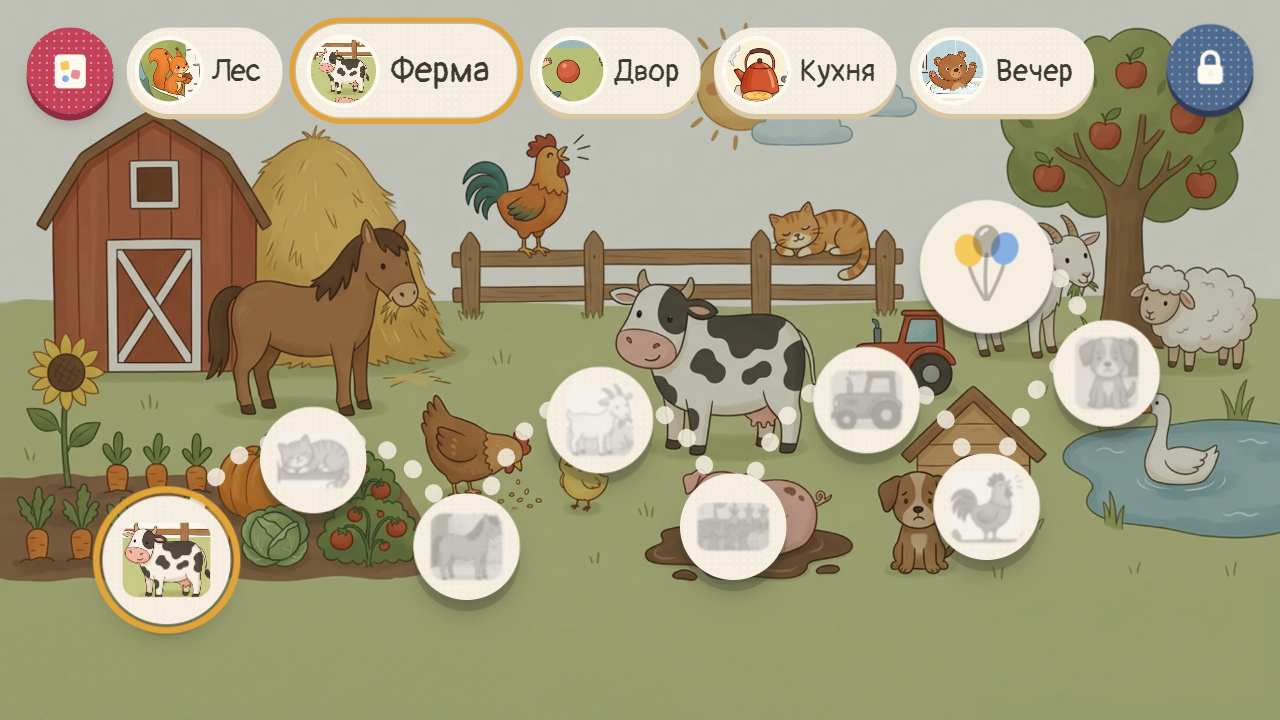
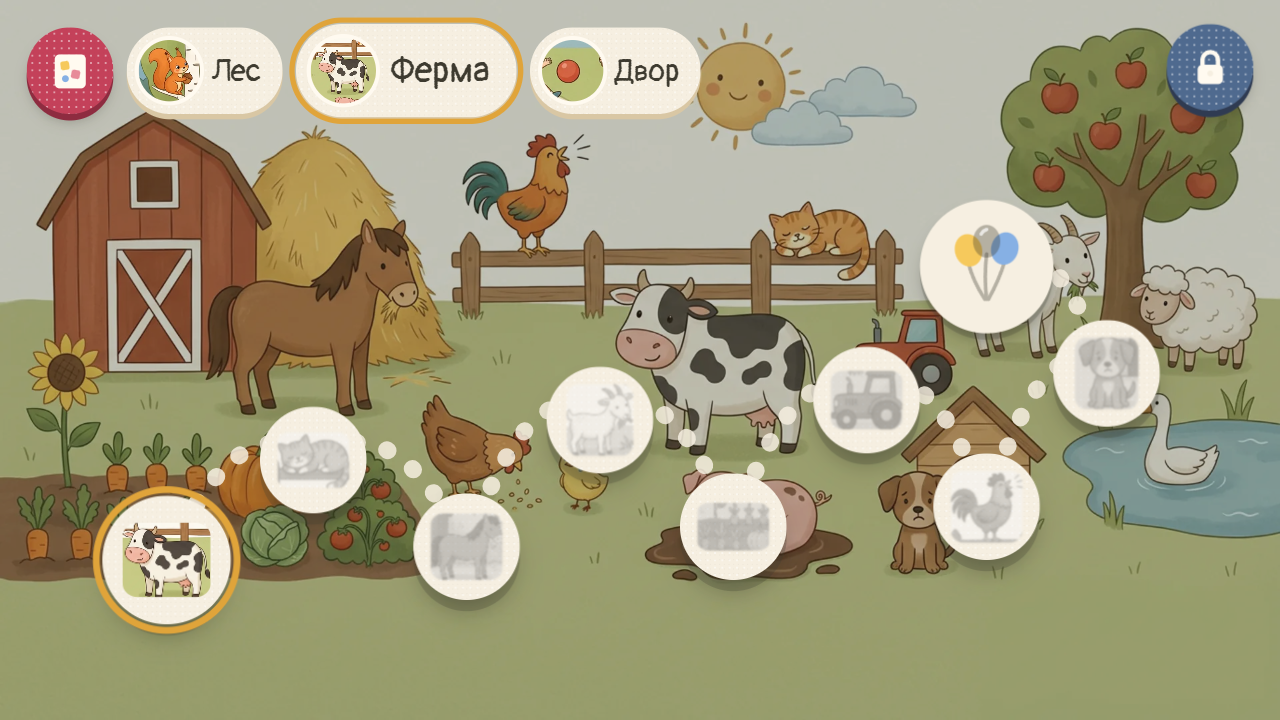
Релизы и обновления: выпускаемые сцены отдельно от готовящихся, реестр выпущенных id, порядок выпуска
- src/data/release.ts: RELEASE_SCENES (лес, ферма, двор) — в релизе только они, в разработке все пять
- zip.mjs требует озвучку только выпускаемых сцен (для 1.0 осталось 148 фраз вместо 292); voice.mjs озвучивает их первыми
- release-ids.json + тест: выпущенные id уровней и героев нельзя переименовать — на них прогресс игроков
- docs/releases.md: как Яндекс принимает обновления и как выпускать новую сцену

Changed region(s): [[0.5312, 0.0306, 0.875, 0.1833]]

diff --git a/src/game/release.test.ts b/src/game/release.test.ts
@@ -1,0 +1,36 @@
+import { describe, expect, it } from 'vitest';
+import released from '../../release-ids.json';
+import { PHRASES } from '../data/phrases';
+import { RELEASE_SCENES, requiredPhrases, scenePhrases } from '../data/release';
+import { ALL_SCENES } from '../data/scenes';
+
+describe('релизы и обновления', () => {
+  it('выпускаемые сцены существуют', () => {
+    for (const id of RELEASE_SCENES) expect(ALL_SCENES.some((s) => s.id === id), id).toBe(true);
+  });
+
+  it('уже выпущенные уровни и герои не пропали — у игроков по ним сохранён прогресс и наклейки', () => {
+    const levels = new Set(ALL_SCENES.flatMap((s) => s.levels.map((l) => l.id)));
+    const objects = new Set(ALL_SCENES.flatMap((s) => s.objects.map((o) => o.id)));
+    expect(released.levels.filter((id: string) => !levels.has(id))).toEqual([]);
+    expect(released.objects.filter((id: string) => !objects.has(id))).toEqual([]);
+  });
+
+  it('релиз требует общие фразы и фразы выпускаемых сцен, но не фразы будущих', () => {
+    const all = Object.keys(PHRASES);
+    const req = new Set(requiredPhrases(ALL_SCENES, all, ['forest']));
+    expect(req.has('welcome')).toBe(true); // общая
+    expect(req.has('squirrel_name')).toBe(true); // лес выпускается
+    expect(req.has('kettle_name')).toBe(false); // кухня — нет
+    expect(req.has('girl_name')).toBe(false); // девочка есть только во дворе и на кухне
+  });
+
+  it('фраза, общая для выпущенной и будущей сцены, нужна релизу', () => {
+    const req = new Set(requiredPhrases(ALL_SCENES, Object.keys(PHRASES), ['yard']));
+    expect(req.has('girl_name')).toBe(true);
+  });
+
+  it('все фразы сцен есть в таблице', () => {
+    for (const s of ALL_SCENES) for (const id of scenePhrases(s)) expect(id in PHRASES, `${s.id}: ${id}`).toBe(true);
+  });
+});

diff --git a/src/data/release.ts b/src/data/release.ts
@@ -1,0 +1,29 @@
+import type { SceneDef } from '../game/types';
+
+// Какие сцены видят игроки. В разработке (npm run dev / show) видны все сцены, в релизной сборке — только эти.
+// Новая сцена приходит к игрокам обновлением: когда её фразы озвучены и проверены, её id добавляется сюда,
+// поднимается версия и собирается новый архив (порядок — docs/releases.md).
+export const RELEASE_SCENES = ['forest', 'farm', 'yard'];
+
+/** Все голосовые фразы, которые звучат в сцене: имена и рассказы героев, задания, связки, история. */
+export function scenePhrases(scene: SceneDef): Set<string> {
+  const ids = new Set<string>();
+  for (const o of scene.objects) for (const k of Object.values(o.voice)) if (k) ids.add(k);
+  for (const l of scene.levels) {
+    ids.add(l.task);
+    if (l.lead) ids.add(l.lead);
+    if (l.outro) ids.add(l.outro);
+  }
+  if (scene.story) ids.add(scene.story.intro).add(scene.story.finale);
+  return ids;
+}
+
+/**
+ * Фразы, без которых релиз не собрать: общие (приветствие, похвала, подсказки — их нет ни в одной сцене)
+ * и фразы выпускаемых сцен. Фразы будущих сцен озвучиваются заранее, но релиз не держат.
+ */
+export function requiredPhrases(all: SceneDef[], phraseIds: string[], released = RELEASE_SCENES): string[] {
+  const inScenes = new Set(all.flatMap((s) => [...scenePhrases(s)]));
+  const needed = new Set(all.filter((s) => released.includes(s.id)).flatMap((s) => [...scenePhrases(s)]));
+  return phraseIds.filter((id) => !inScenes.has(id) || needed.has(id));
+}

diff --git a/src/data/scenes/index.ts b/src/data/scenes/index.ts
@@ -1,12 +1,18 @@
 import type { SceneDef } from '../../game/types';
-import { evening } from './evening';
-import { farm } from './farm';
-import { forest } from './forest';
-import { kitchen } from './kitchen';
-import { yard } from './yard';
+import { RELEASE_SCENES } from '../release.ts';
+import { evening } from './evening.ts';
+import { farm } from './farm.ts';
+import { forest } from './forest.ts';
+import { kitchen } from './kitchen.ts';
+import { yard } from './yard.ts';
+
+// Импорты с расширением .ts: этот модуль читает и scripts/zip.mjs (Node без сборщика).
 
 // «Вечер» — последним: спокойный финал игры («Спокойной ночи!»).
-export const SCENES: SceneDef[] = [forest, farm, yard, kitchen, evening];
+export const ALL_SCENES: SceneDef[] = [forest, farm, yard, kitchen, evening];
+
+// В релизной сборке — только выпущенные сцены (src/data/release.ts); в разработке и тестах — все.
+export const SCENES: SceneDef[] = import.meta.env?.PROD ? ALL_SCENES.filter((s) => RELEASE_SCENES.includes(s.id)) : ALL_SCENES;
 
 export function getScene(id: string): SceneDef | undefined {
   return SCENES.find((s) => s.id === id);

diff --git a/docs/releases.md b/docs/releases.md
@@ -1,0 +1,46 @@
+# Релизы и обновления
+
+## Как Яндекс Игры принимают обновление
+
+- Опубликованную игру можно менять: в Консоли открыть черновик, загрузить новый архив и отправить на модерацию. **Пока идёт проверка, игроки играют в прежнюю версию** — ничего не ломается и не пропадает. ([Выпуск обновлений](https://yandex.ru/dev/games/doc/ru/console/update-game))
+- Одновременно идёт только одна модерация (черновик, A/B-тест креативов или A/B-тест версий). Отказ приходит на почту с причинами, черновик становится «Отклонён».
+- Перед отправкой новую версию можно проверить в [режиме черновика](https://yandex.ru/dev/games/doc/ru/console/draft-mode).
+- Есть [A/B-тесты версий](https://yandex.ru/dev/games/doc/ru/console/ab-builds): часть игроков получает новую сборку — можно сравнить удержание.
+- Сроки модерации в документации не названы.
+
+## Что для этого есть в проекте
+
+| Что | Где | Зачем |
+|---|---|---|
+| Список выпускаемых сцен | `src/data/release.ts` → `RELEASE_SCENES` | В релизной сборке видны только они; в разработке (`npm run dev`, `show`) — все. Готовую сцену выпускаем, следующую доделываем |
+| Проверка озвучки | `scripts/zip.mjs` | Архив собирается, когда озвучены и проверены общие фразы и фразы выпускаемых сцен. Будущие сцены релиз не держат |
+| Порядок озвучки | `scripts/voice.mjs` | Ежедневная озвучка сначала берёт фразы выпускаемых сцен |
+| Реестр выпущенных id | `release-ids.json` | Прогресс и наклейки игроков сохранены по id уровней и героев. После сборки архива сюда дописываются выпущенные id; тест и `zip.mjs` не дают их переименовать или удалить |
+| Сохранения | `normalizeSave` (`src/platform/base.ts`) | Новое поле в сохранении получает значение по умолчанию — старые сохранения читаются новой версией |
+| Версия архива | `package.json` → `version` | Имя архива: `release/talking-pictures-<версия>.zip` |
+
+## Как выпустить обновление
+
+1. Озвучить и проверить фразы новой сцены (ежедневная озвучка + страница прослушивания).
+2. Добавить id сцены в `RELEASE_SCENES`.
+3. Поднять версию: `npm version minor --no-git-tag-version` (новая сцена) или `patch` (исправления).
+4. `npm run release` — сборка, проверки и архив. Если что-то не так, архив не соберётся и скрипт назовёт причину.
+5. Закоммитить изменения вместе с обновлённым `release-ids.json`.
+6. Консоль Яндекс Игр → черновик → загрузить архив, указать версию → проверить в режиме черновика → отправить на модерацию.
+7. Тексты карточки (`promo/texts.md`) поправить, если изменилось описание («теперь пять сцен»).
+
+## План выпусков
+
+| Версия | Что | Готовность |
+|---|---|---|
+| 1.0 | Лес, ферма, двор + история сцен и праздники | Осталось озвучить 148 фраз (≈ 7 дней лимита) |
+| 1.1 | Кухня | ≈ 80 фраз |
+| 1.2 | Вечер | ≈ 65 фраз |
+| дальше | «Тук-тук, кто там?», «Где спрятался?», зима к декабрю | В плане ([разбор конкурентов](competitors-2026-10-21.md)) |
+
+Частые обновления полезны: новая сцена — повод снова показать игру игрокам и обновить карточку.
+
+## Чего нельзя делать в обновлении
+
+- Переименовывать или удалять id уровней и героев выпущенных сцен — у игроков пропадут пройденные уровни и наклейки. Если герой больше не нужен, его можно сделать декорацией (`findable: false`), id оставить.
+- Менять смысл поля в сохранении. Новое поле — можно (получит значение по умолчанию), старое — только читать по-старому.

diff --git a/NIGHT_LOG.md b/NIGHT_LOG.md
@@ -50,6 +50,14 @@
   - Осталось 136 фраз, из них эхо только 17. Схема готова (выключена до одобрения тембра 3.8): основная модель сначала `--echo-only`, запасные 3.8 — `--plain --skip-echo`. С двумя запасными вся озвучка — примерно за одну ночь.
 - Включить: строки `gemini-3.8-flash-tts` и/или `gemini-3.8-flash-lite-tts` в `voice/extra-models.txt` — только после «да» пользователя.
 
+## Релизы и обновления (21.10, вопрос пользователя «можно ли обновлять игру?»)
+
+- Регистрация в Консоли Яндекс Игр пока недоступна (сбой у Яндекса) — время есть.
+- Порядок выпуска и правила — [docs/releases.md](docs/releases.md). Яндекс: новый архив → модерация, игроки в это время играют в прежнюю версию.
+- `src/data/release.ts` → `RELEASE_SCENES` (сейчас лес, ферма, двор): в релизной сборке только они, в разработке — все пять. `zip.mjs` требует озвучку только общих фраз и фраз выпускаемых сцен — для версии 1.0 осталось 148 фраз, а не 292. `voice.mjs` озвучивает их первыми.
+- `release-ids.json`: после сборки архива туда дописываются выпущенные id уровней и героев; тест и `zip.mjs` не дают их переименовать или удалить (на них держится прогресс игроков).
+- Импорты в `src/data/scenes/index.ts` — с расширением `.ts` (`allowImportingTsExtensions`), чтобы скрипты Node читали сцены без сборщика.
+
 ## Новые сцены: «Кухня» и «Вечер» (21.10, пользователь ушёл — работа без подтверждений)
 
 - Зачем: три первые сцены — природа и животные, а речь малыша растёт из быта. Пользователь предложил «дом» и «тело»; выбраны кухня (посуда, еда, «горячо», обобщающее слово «посуда») и вечер (мишка купается и ложится спать — части тела, умывание, вещи для сна). Космос отложен: мало предметов и далеко от речи ребёнка в жизни. Зима/Новый год — кандидат к декабрю.
